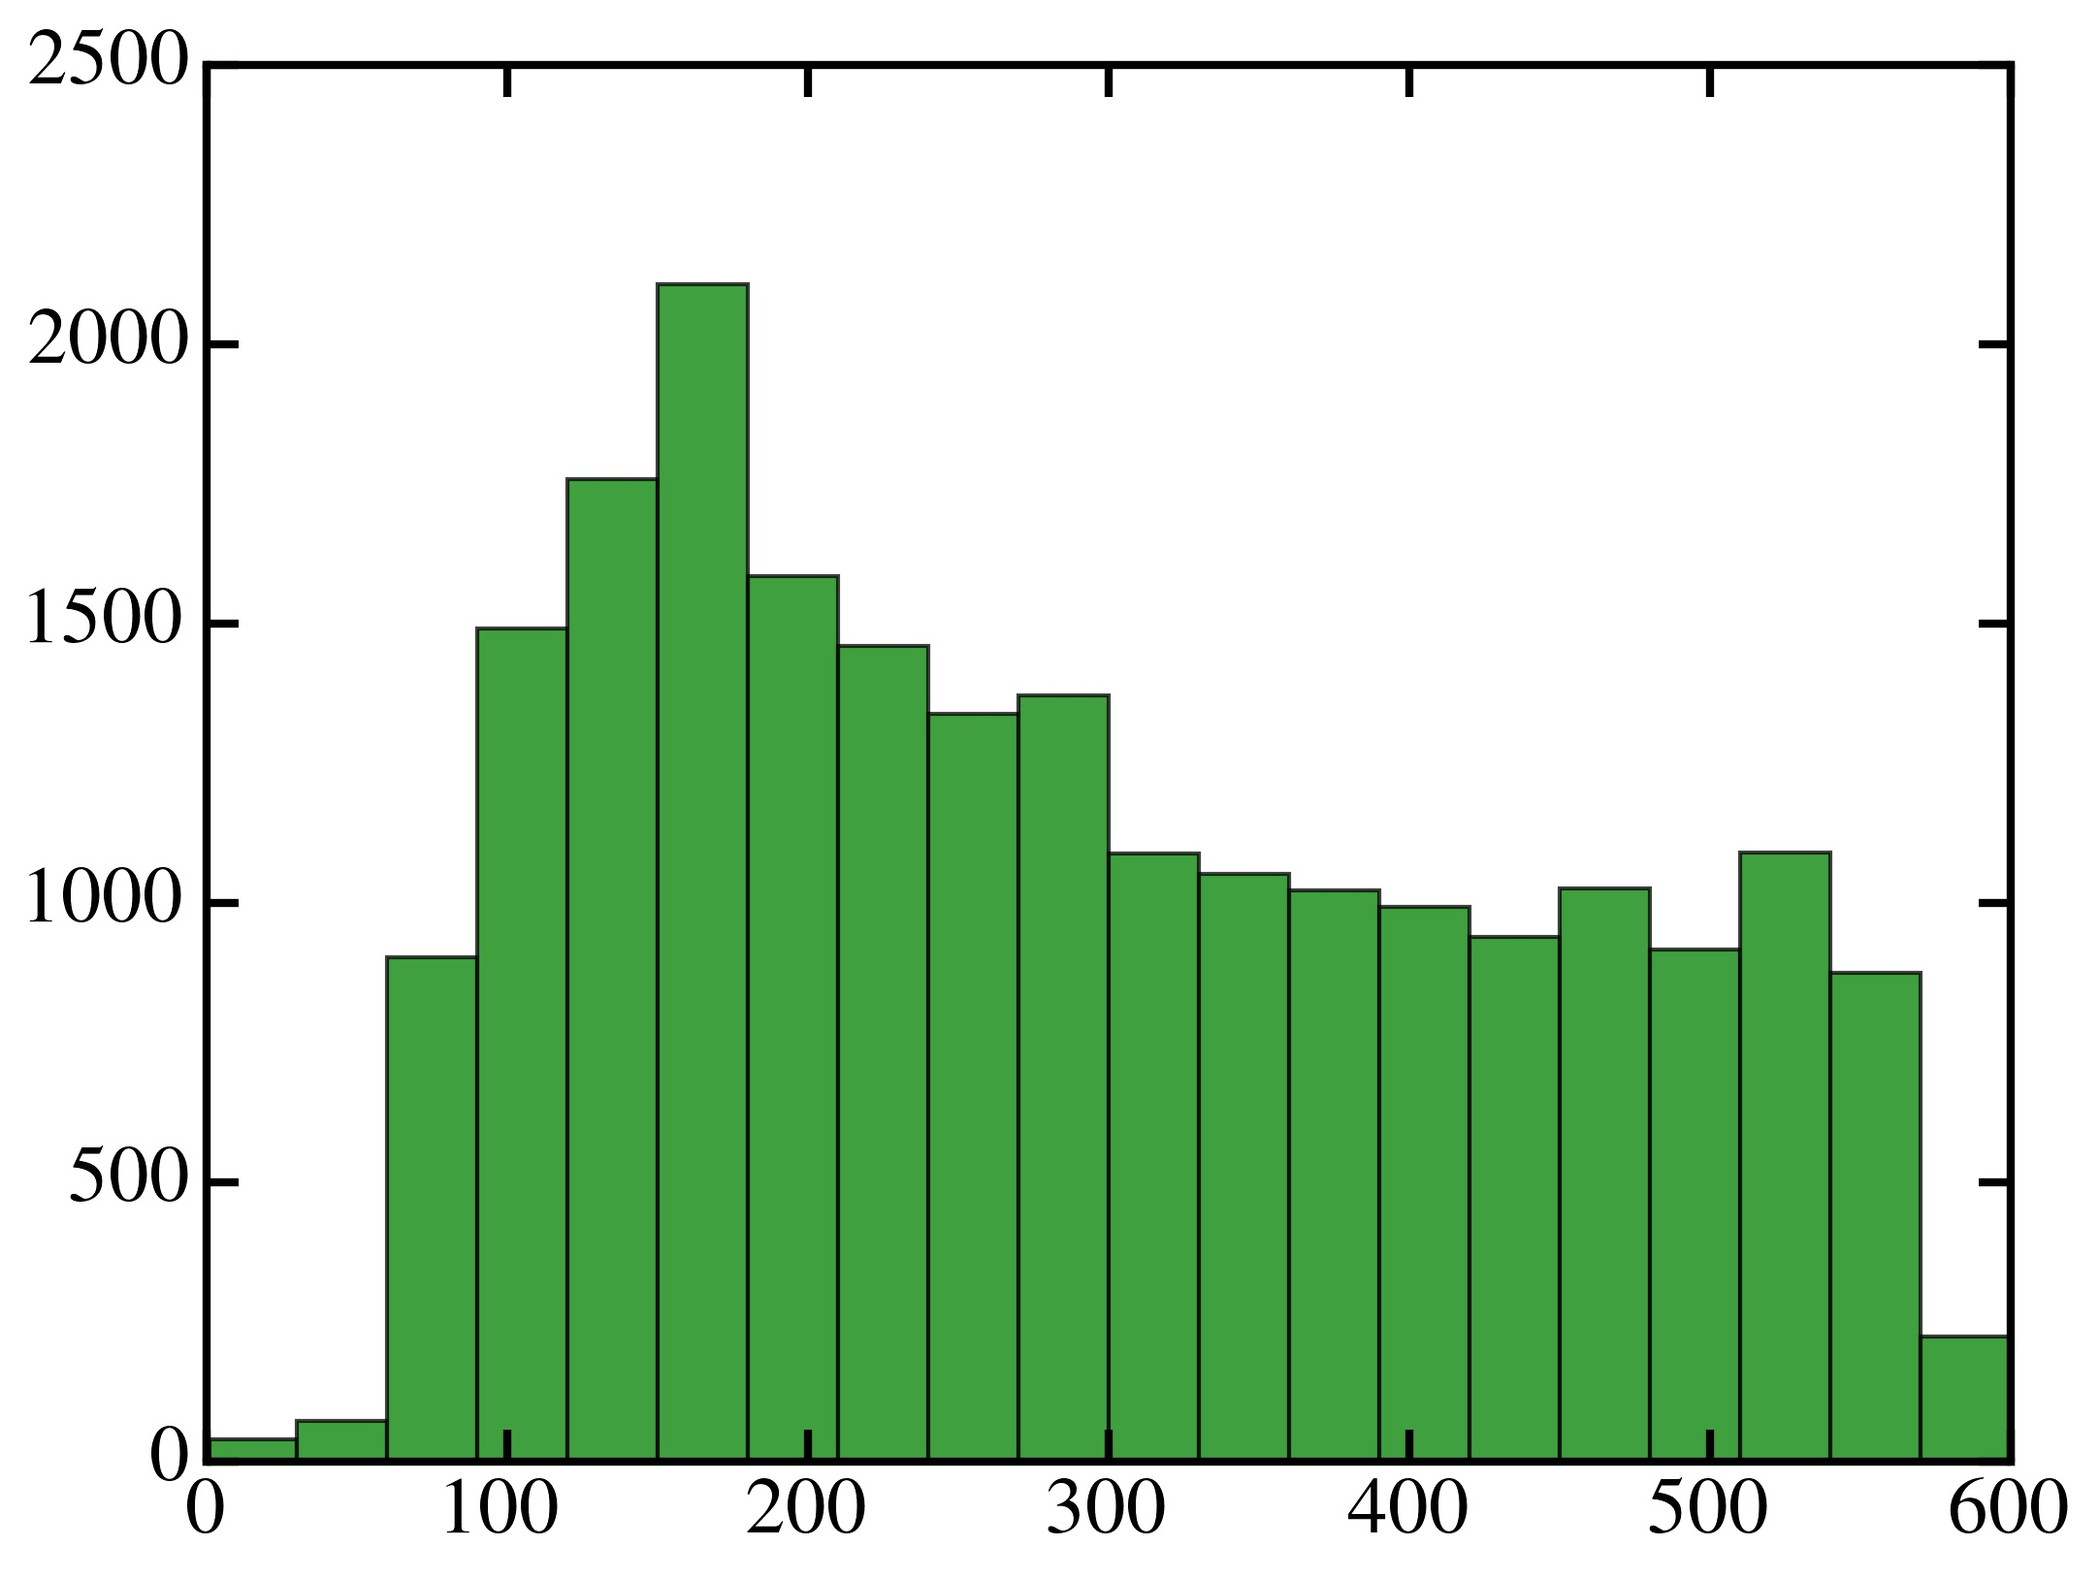
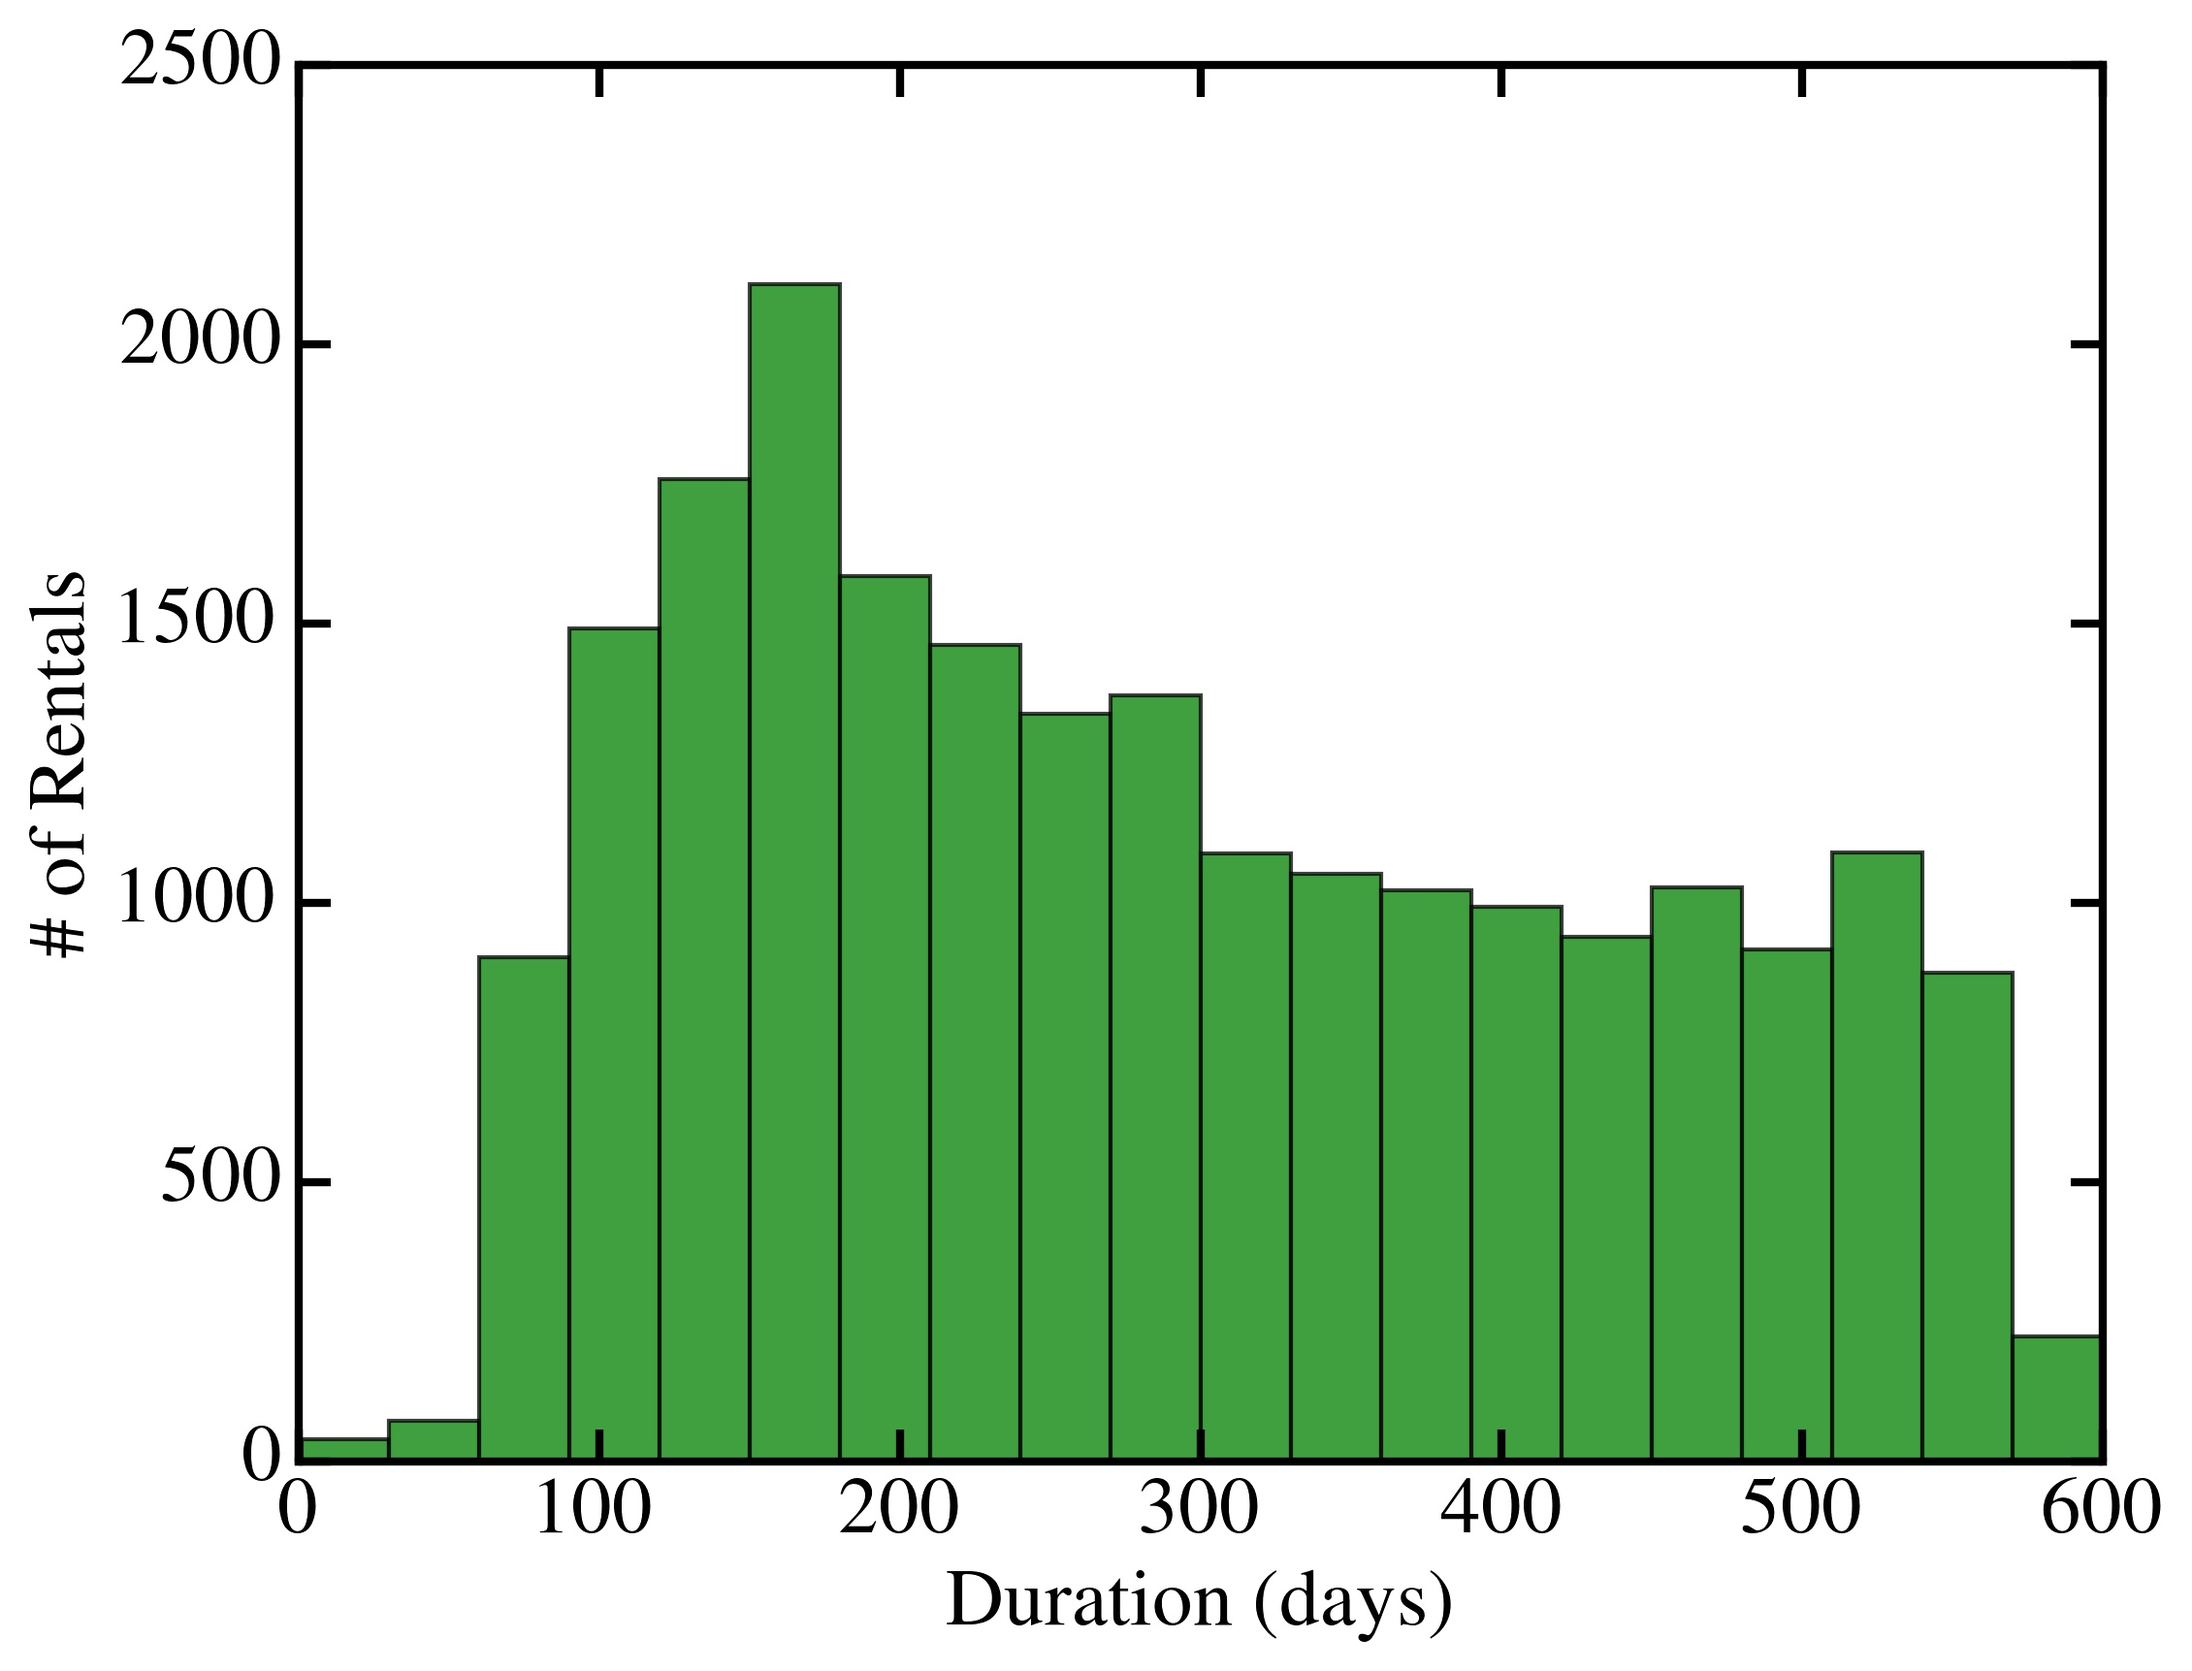
Make proability plot

diff --git a/analysis.py b/analysis.py
@@ -151,6 +151,8 @@ if args.plot:
     histOut = plt.hist(
         goodData,
         bins=binList, normed=False, facecolor='green', alpha=0.75)
+    plt.xlabel(r'Duration (days)')
+    plt.ylabel(r'\# of Rentals')
     if args.save:
         plt.savefig('./plots/RentalDurations.jpg', dpi=DPI)
         if args.pdf:
@@ -158,11 +160,13 @@ if args.plot:
 
 
 # Estimate very simple probabilities for the rental using ratios
-# ------------------------------------------------------------------
+# ------------------------------------------------------------------------------------------------------------
 if args.ratios:
     print 'Computing simple ratio estimates of probabilities'
     # First find all the unique promotions
     promoList = list(set(dataFile['Promotion Name'].values.tolist()))
+    reOrder = [5, 3, 1, 2, 0, 4]
+    promoList = [promoList[index] for index in reOrder]
     numPromos = len(promoList)
 
     # Now do simple counts to get the raw ratios
@@ -175,7 +179,26 @@ if args.ratios:
                 countsArray[promoNum, 0] += 1.0
     # Dictionary - key: promoName; value: [raw likelihood, number of datapoints]
     rentedProbs = dict((promo, [countsArray[counter, 0]/countsArray[counter, 1],
-                                int(countsArray[counter, 1])]) for counter, promo in enumerate(promoList))
+                                int(countsArray[counter, 0]), int(countsArray[counter, 1])])
+                       for counter, promo in enumerate(promoList))
+    if args.plot:
+        plt.clf()
+        plt.figure(1, figsize=(fwid, fhgt))
+        plt.barh(range(len(rentedProbs)), [value[0] for value in rentedProbs.values()], align='center')
+        plt.yticks(range(len(rentedProbs)), rentedProbs.keys())
+        plt.ylabel(r'Promotion Type')
+        plt.xlabel(r'$\mathrm{Reservation} \rightarrow \mathrm{Rental}$')
+        plt.xlim(0.0, 1.0)
+        ax = plt.gca()
+        ax.tick_params(axis='both', which='major', labelsize=14)
+        ax.tick_params(axis='both', which='minor', labelsize=14)
+        if args.save:
+            plt.savefig('./plots/RentalProbabilities.jpg', dpi=DPI)
+            if args.pdf:
+                plt.savefig('./plots/RentalProbabilities.pdf', dpi=DPI)
+
+# Examine the rate v/s the duration
+# ------------------------------------------------------------------------------------------------------------
 
 if args.stop:
     pdb.set_trace()
